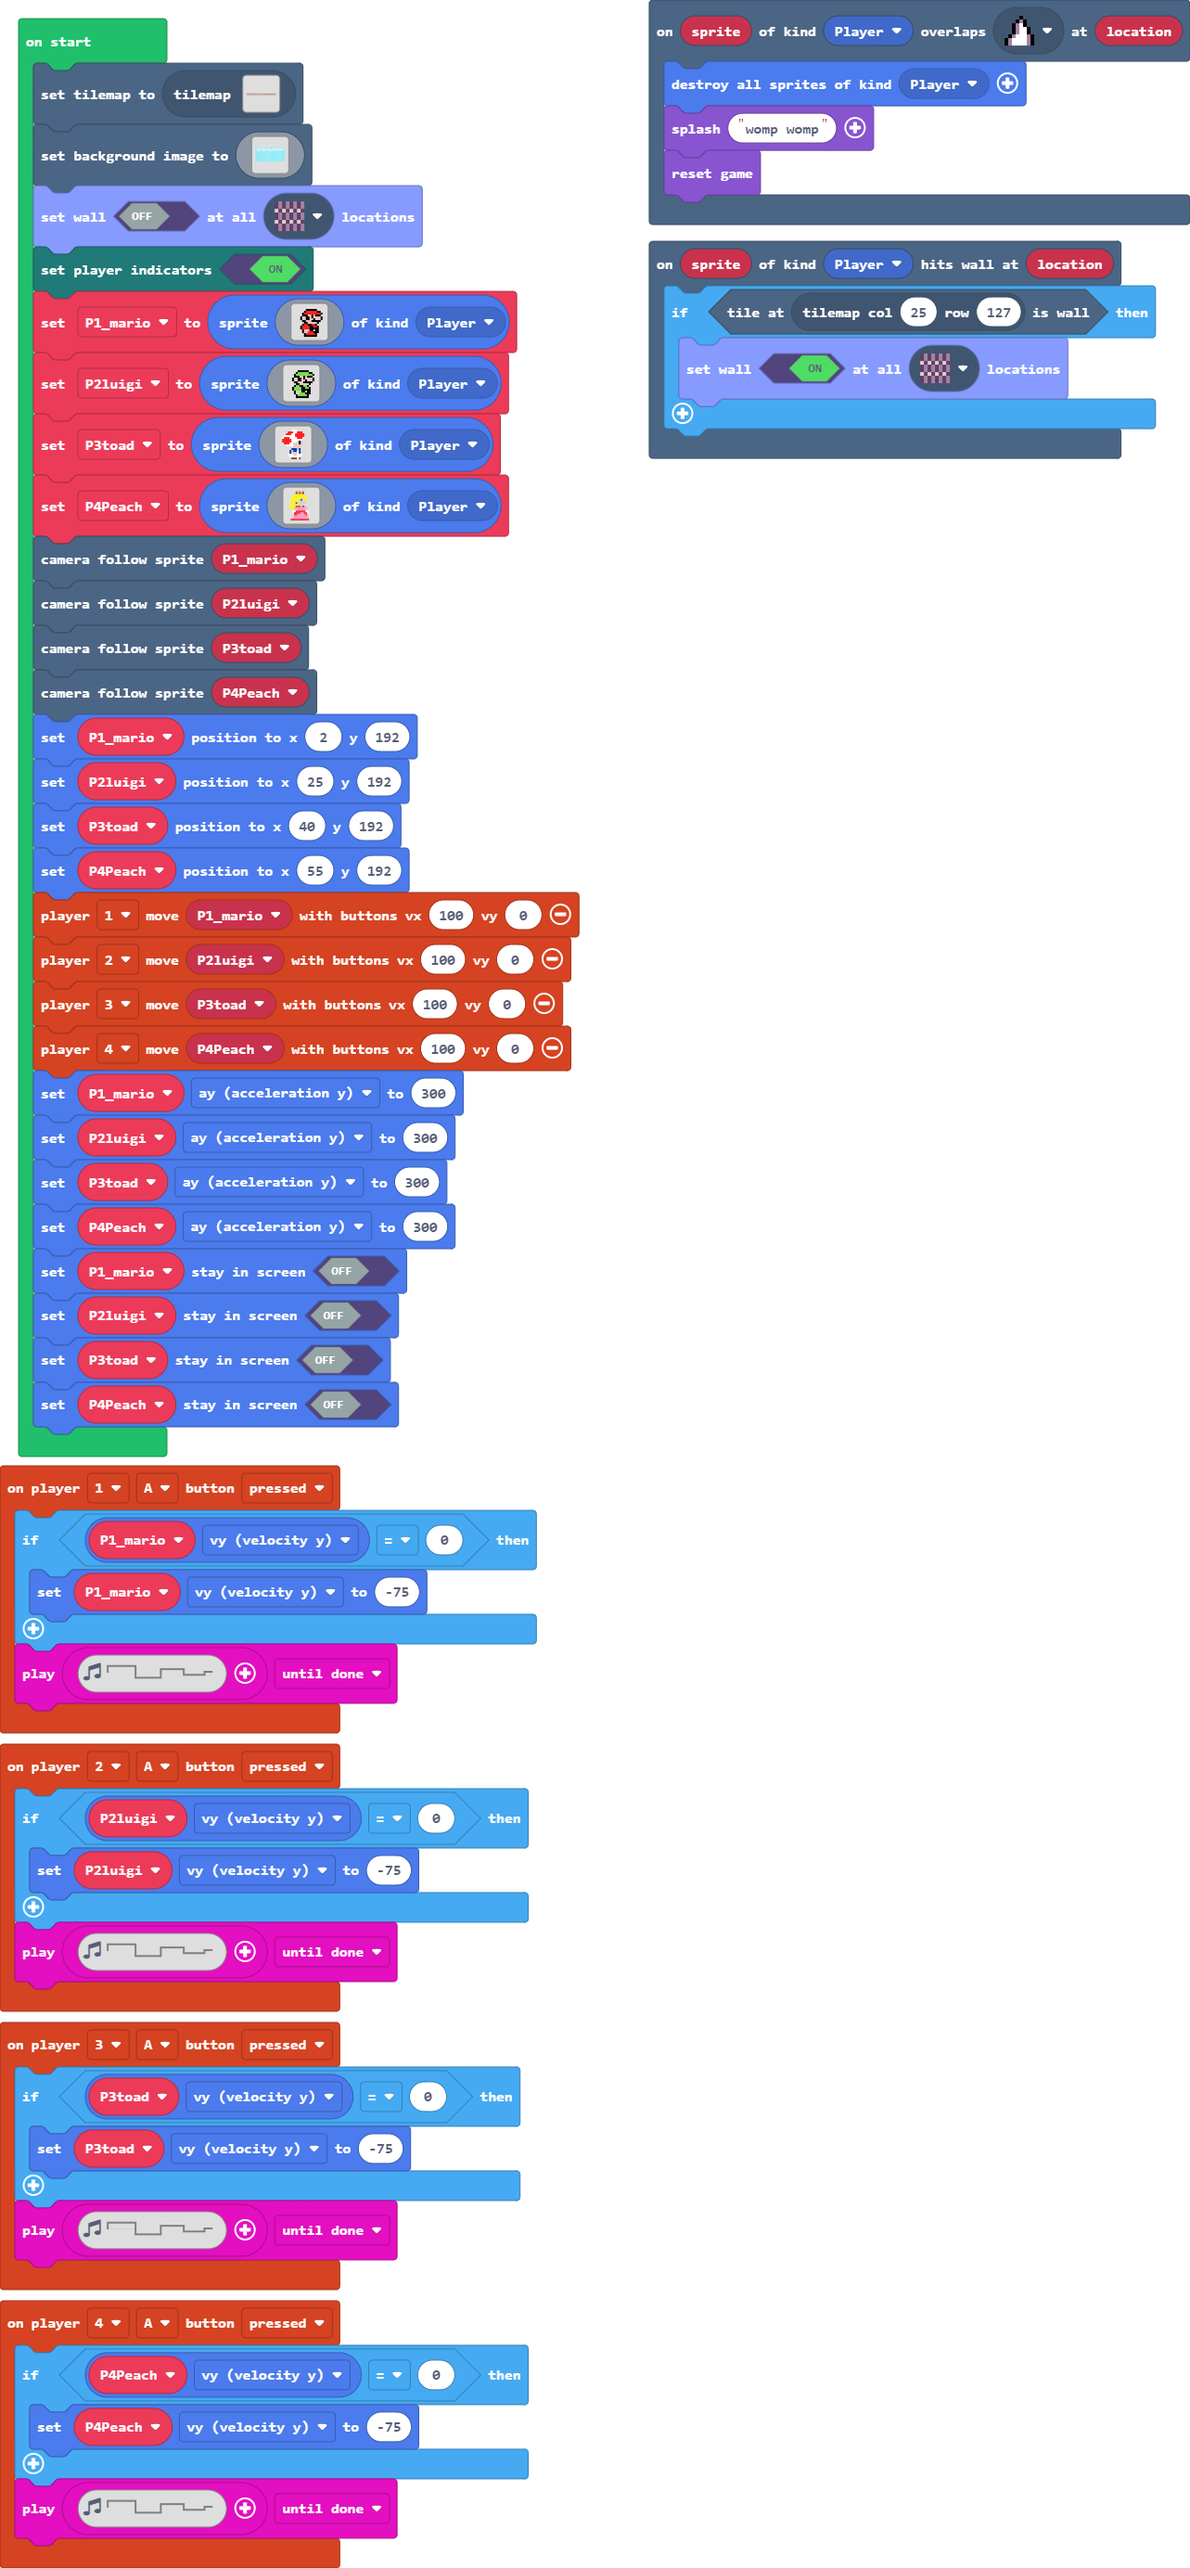
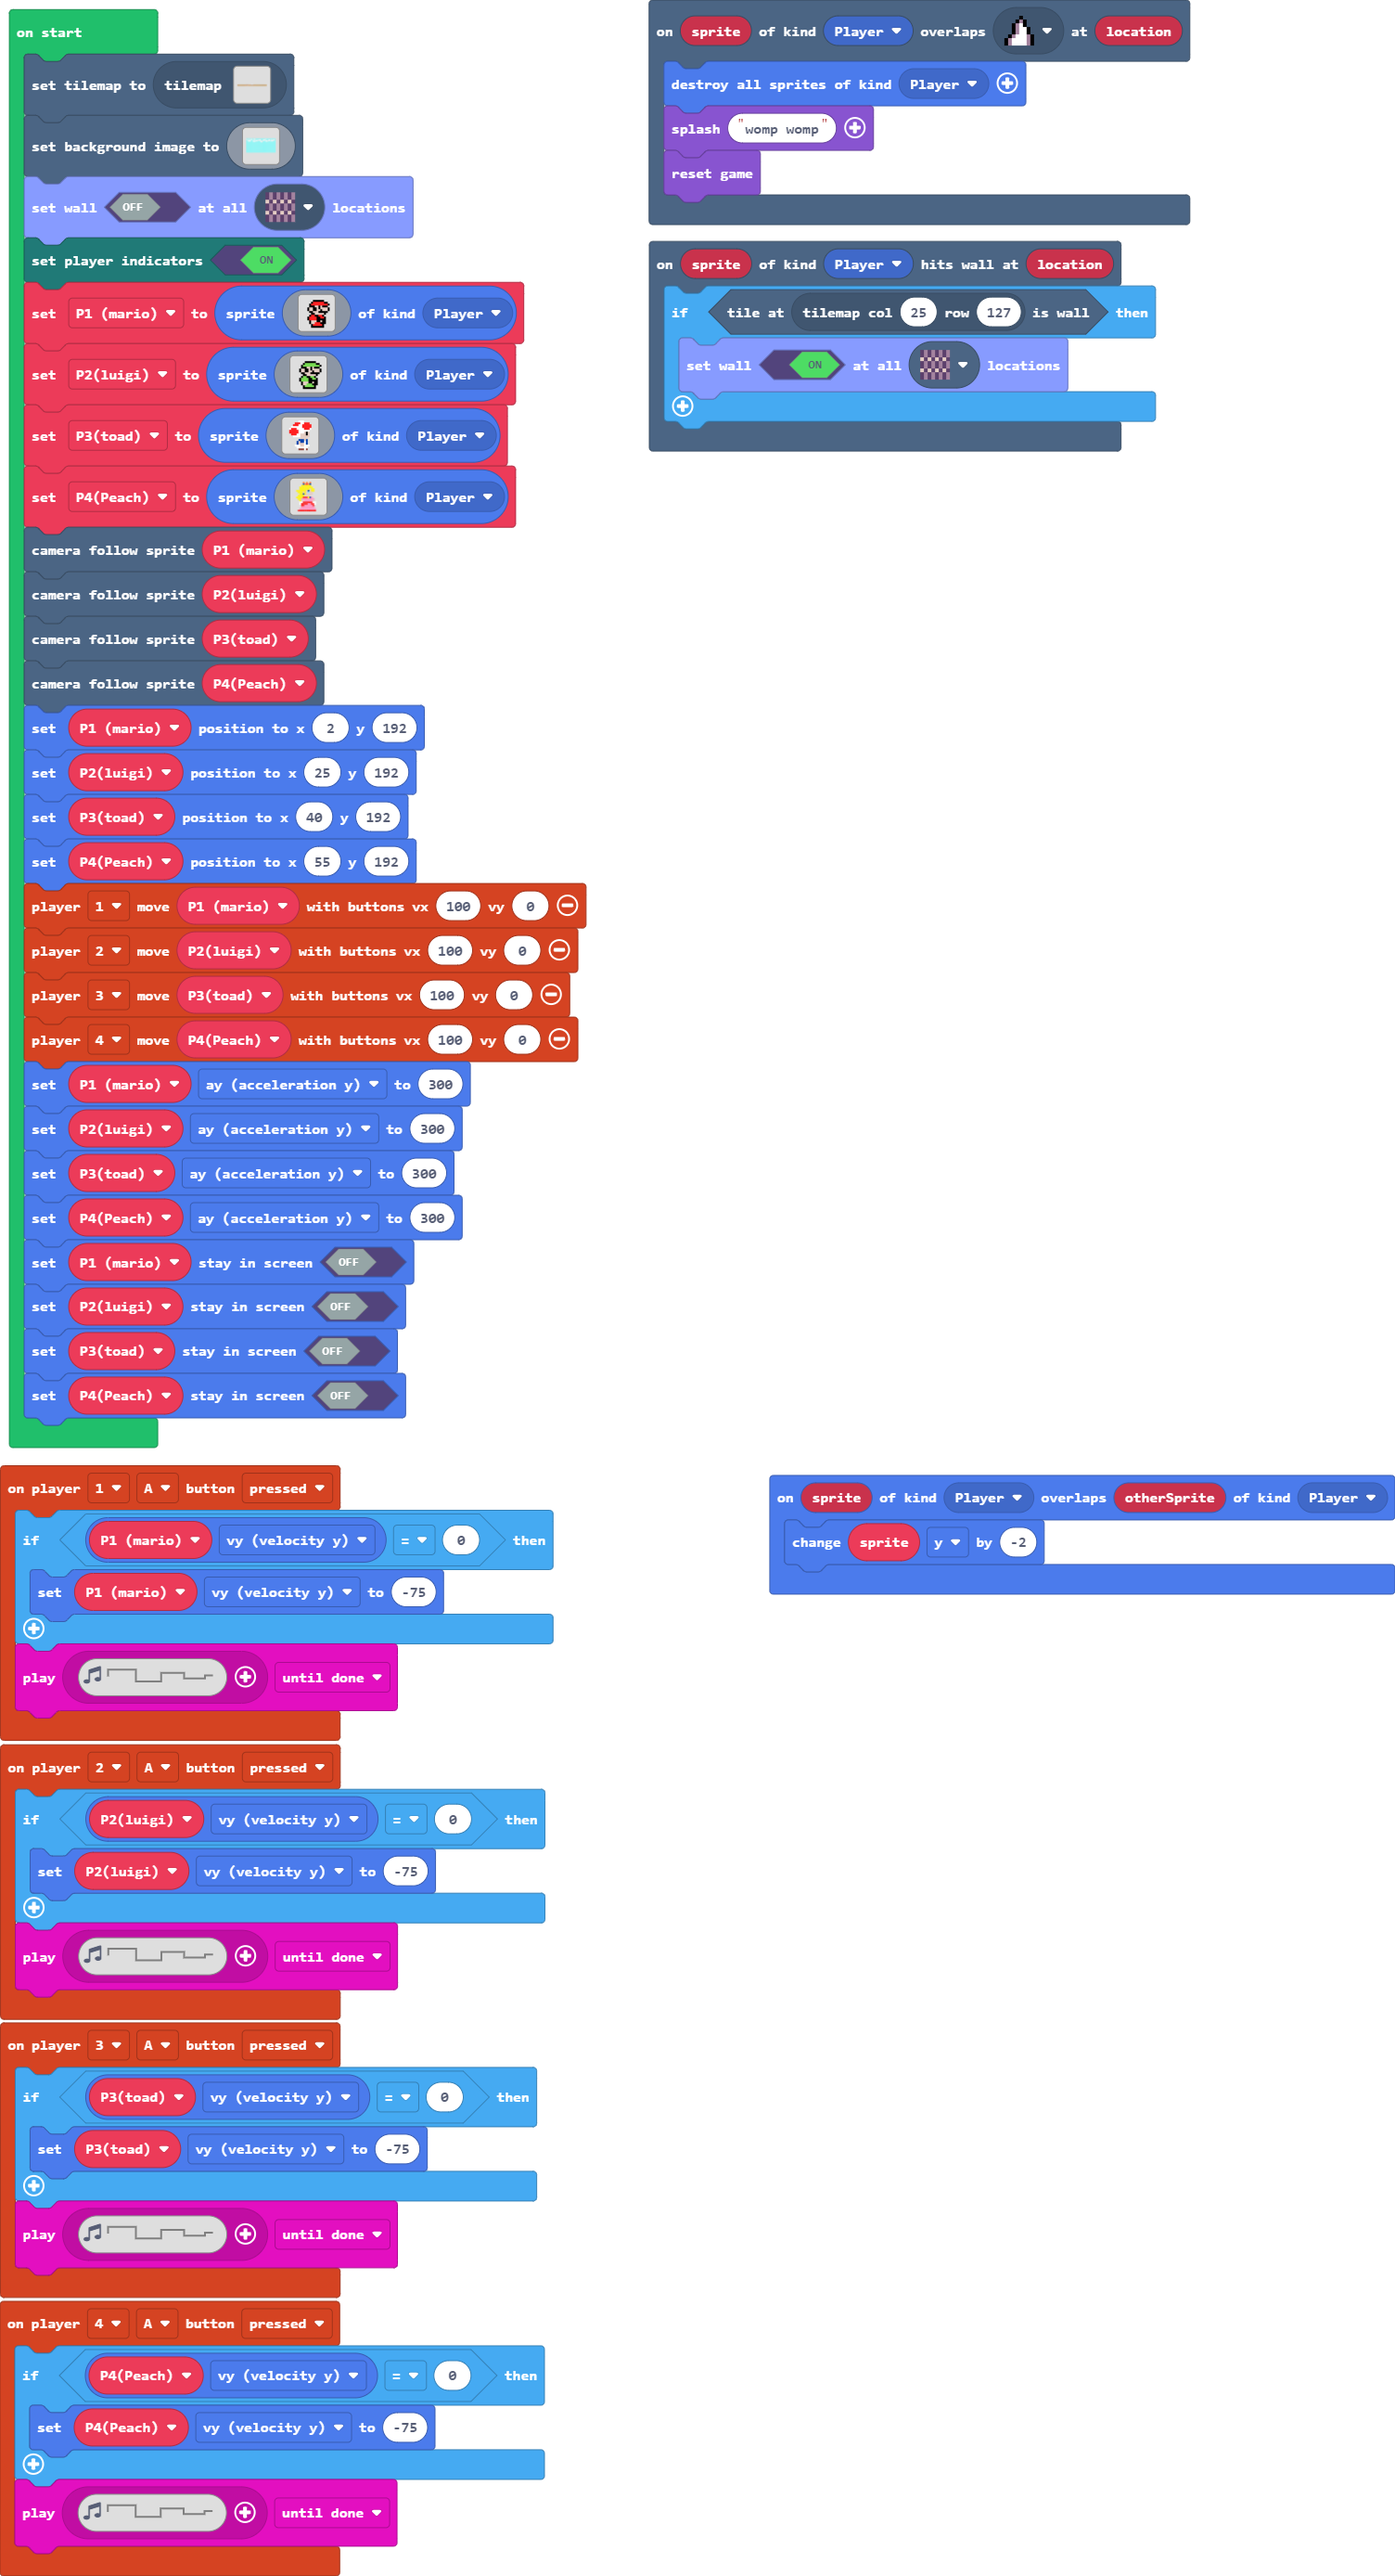
Restore '1/25/2024, 1:10:17 PM Update main.blocks, main.ts'

Changed region(s): [[0.0, 0.0, 0.4988, 1.0], [0.4677, 0.0, 1.0, 0.1864], [0.53, 0.5592, 1.0, 0.6214]]

diff --git a/main.ts b/main.ts
@@ -14,6 +14,9 @@ scene.onOverlapTile(SpriteKind.Player, assets.tile`spike`, function (sprite, loc
     game.splash("womp womp")
     game.reset()
 })
+sprites.onOverlap(SpriteKind.Player, SpriteKind.Player, function (sprite, otherSprite) {
+    sprite.y += -2
+})
 controller.player4.onButtonEvent(ControllerButton.A, ControllerButtonEvent.Pressed, function () {
     if (P4Peach.vy == 0) {
         P4Peach.vy = -75
